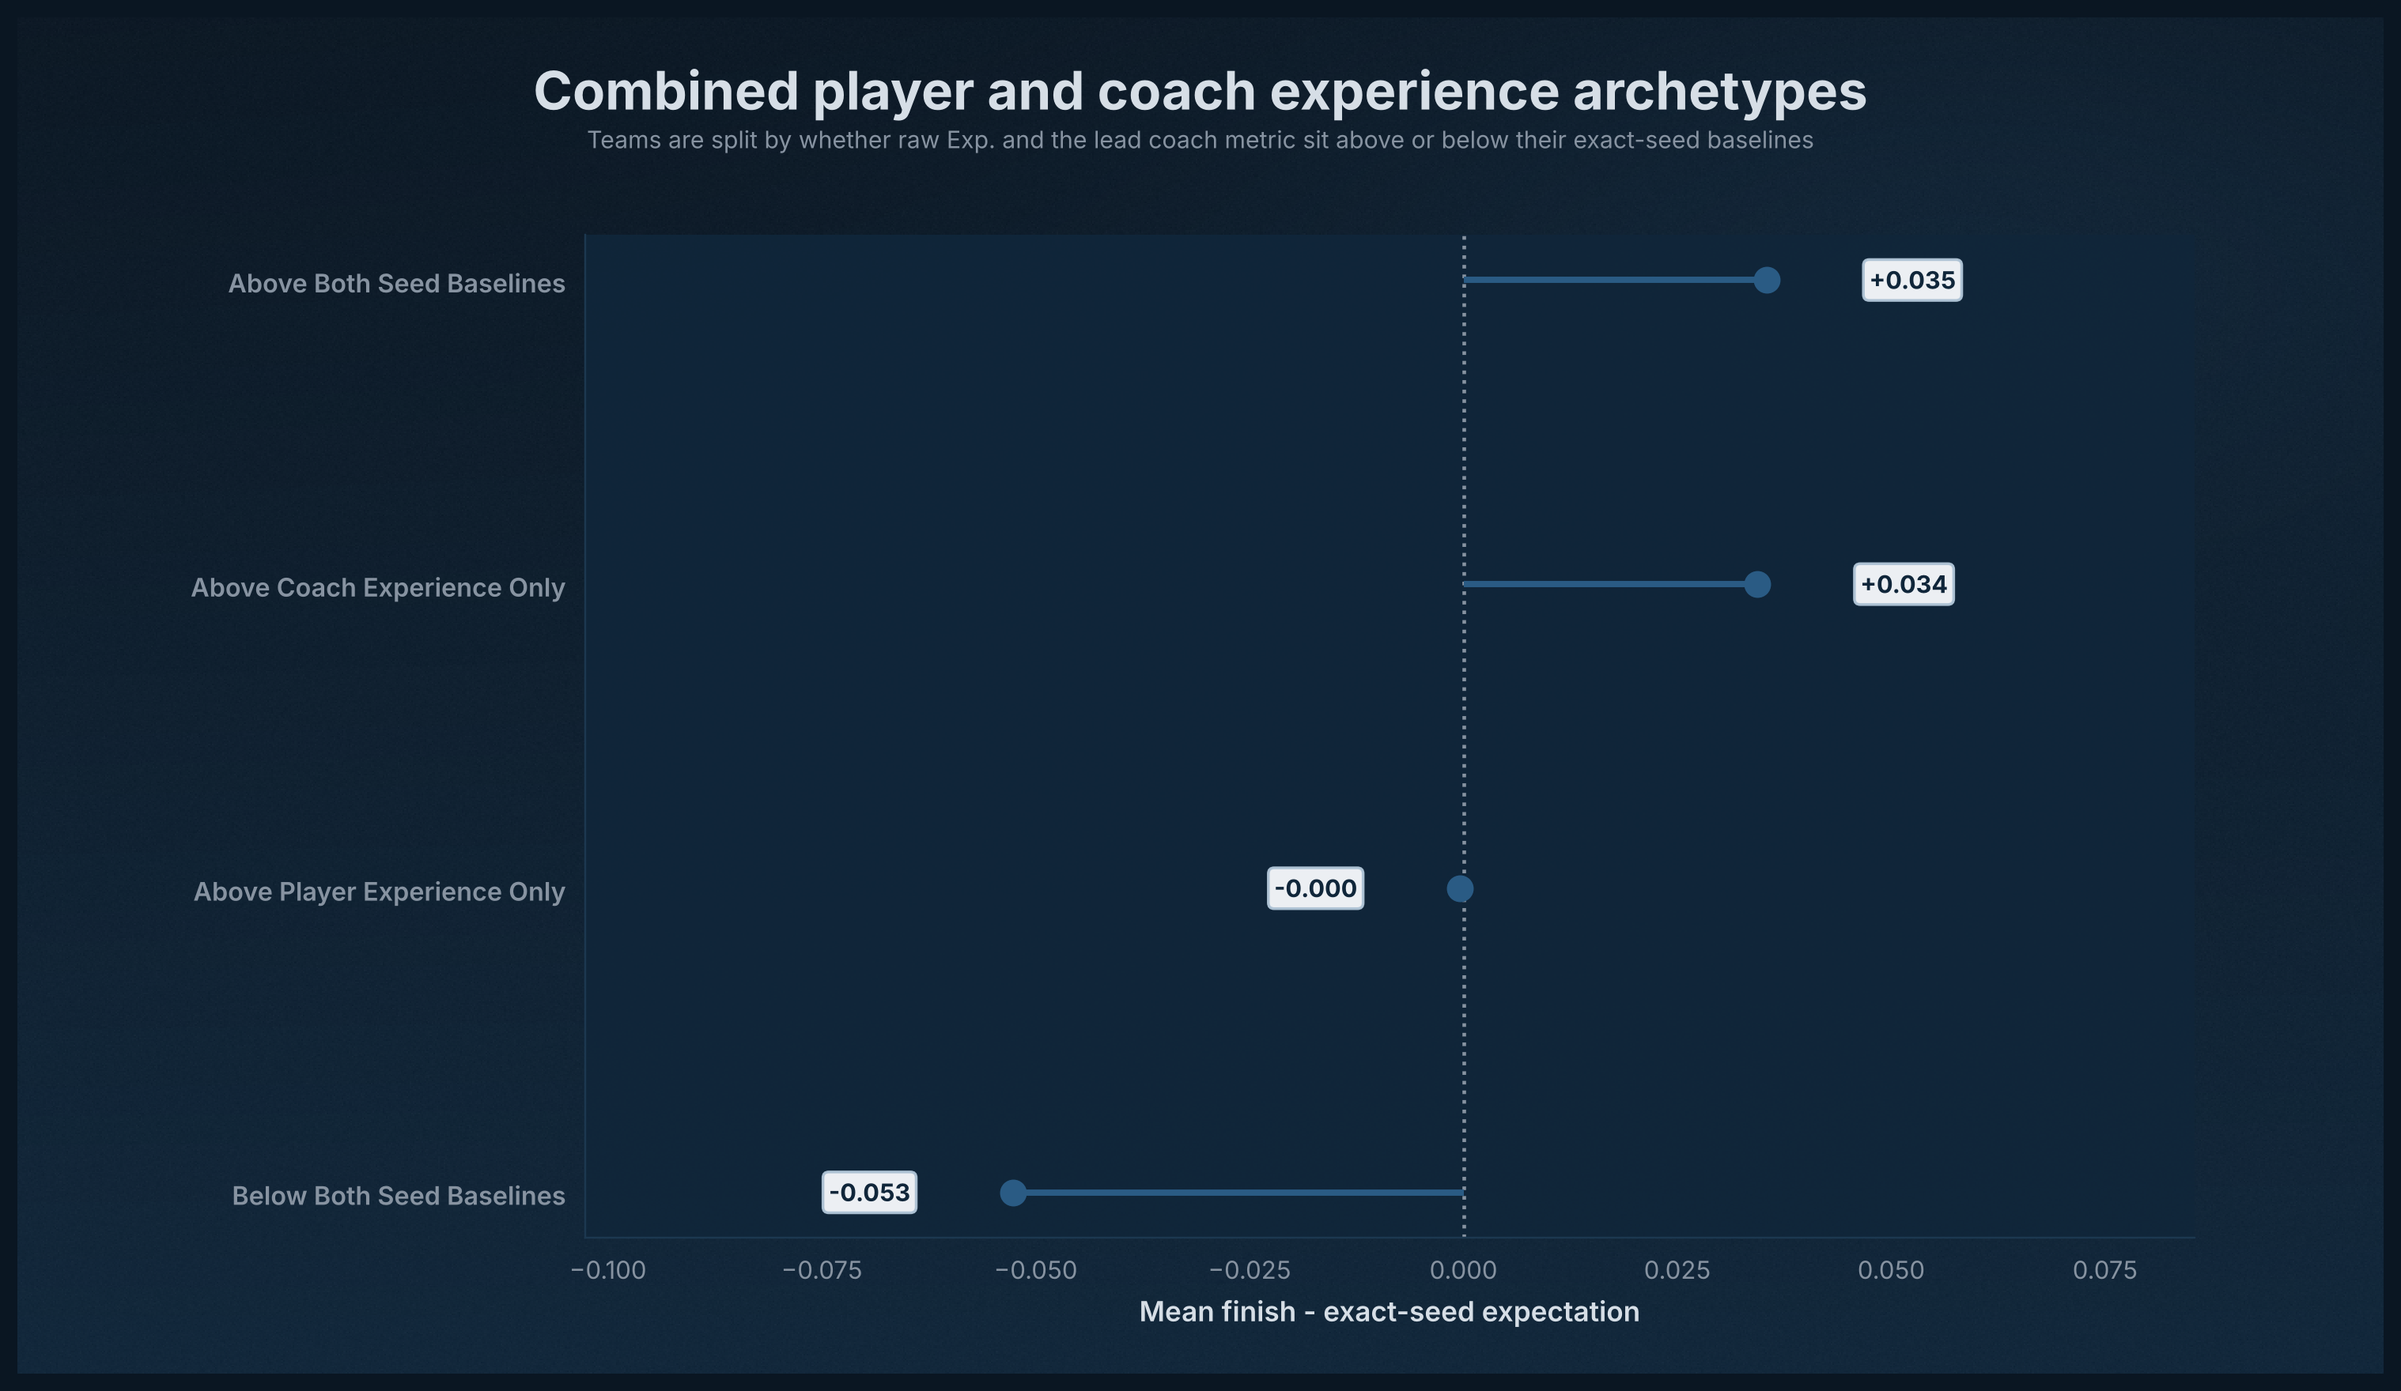
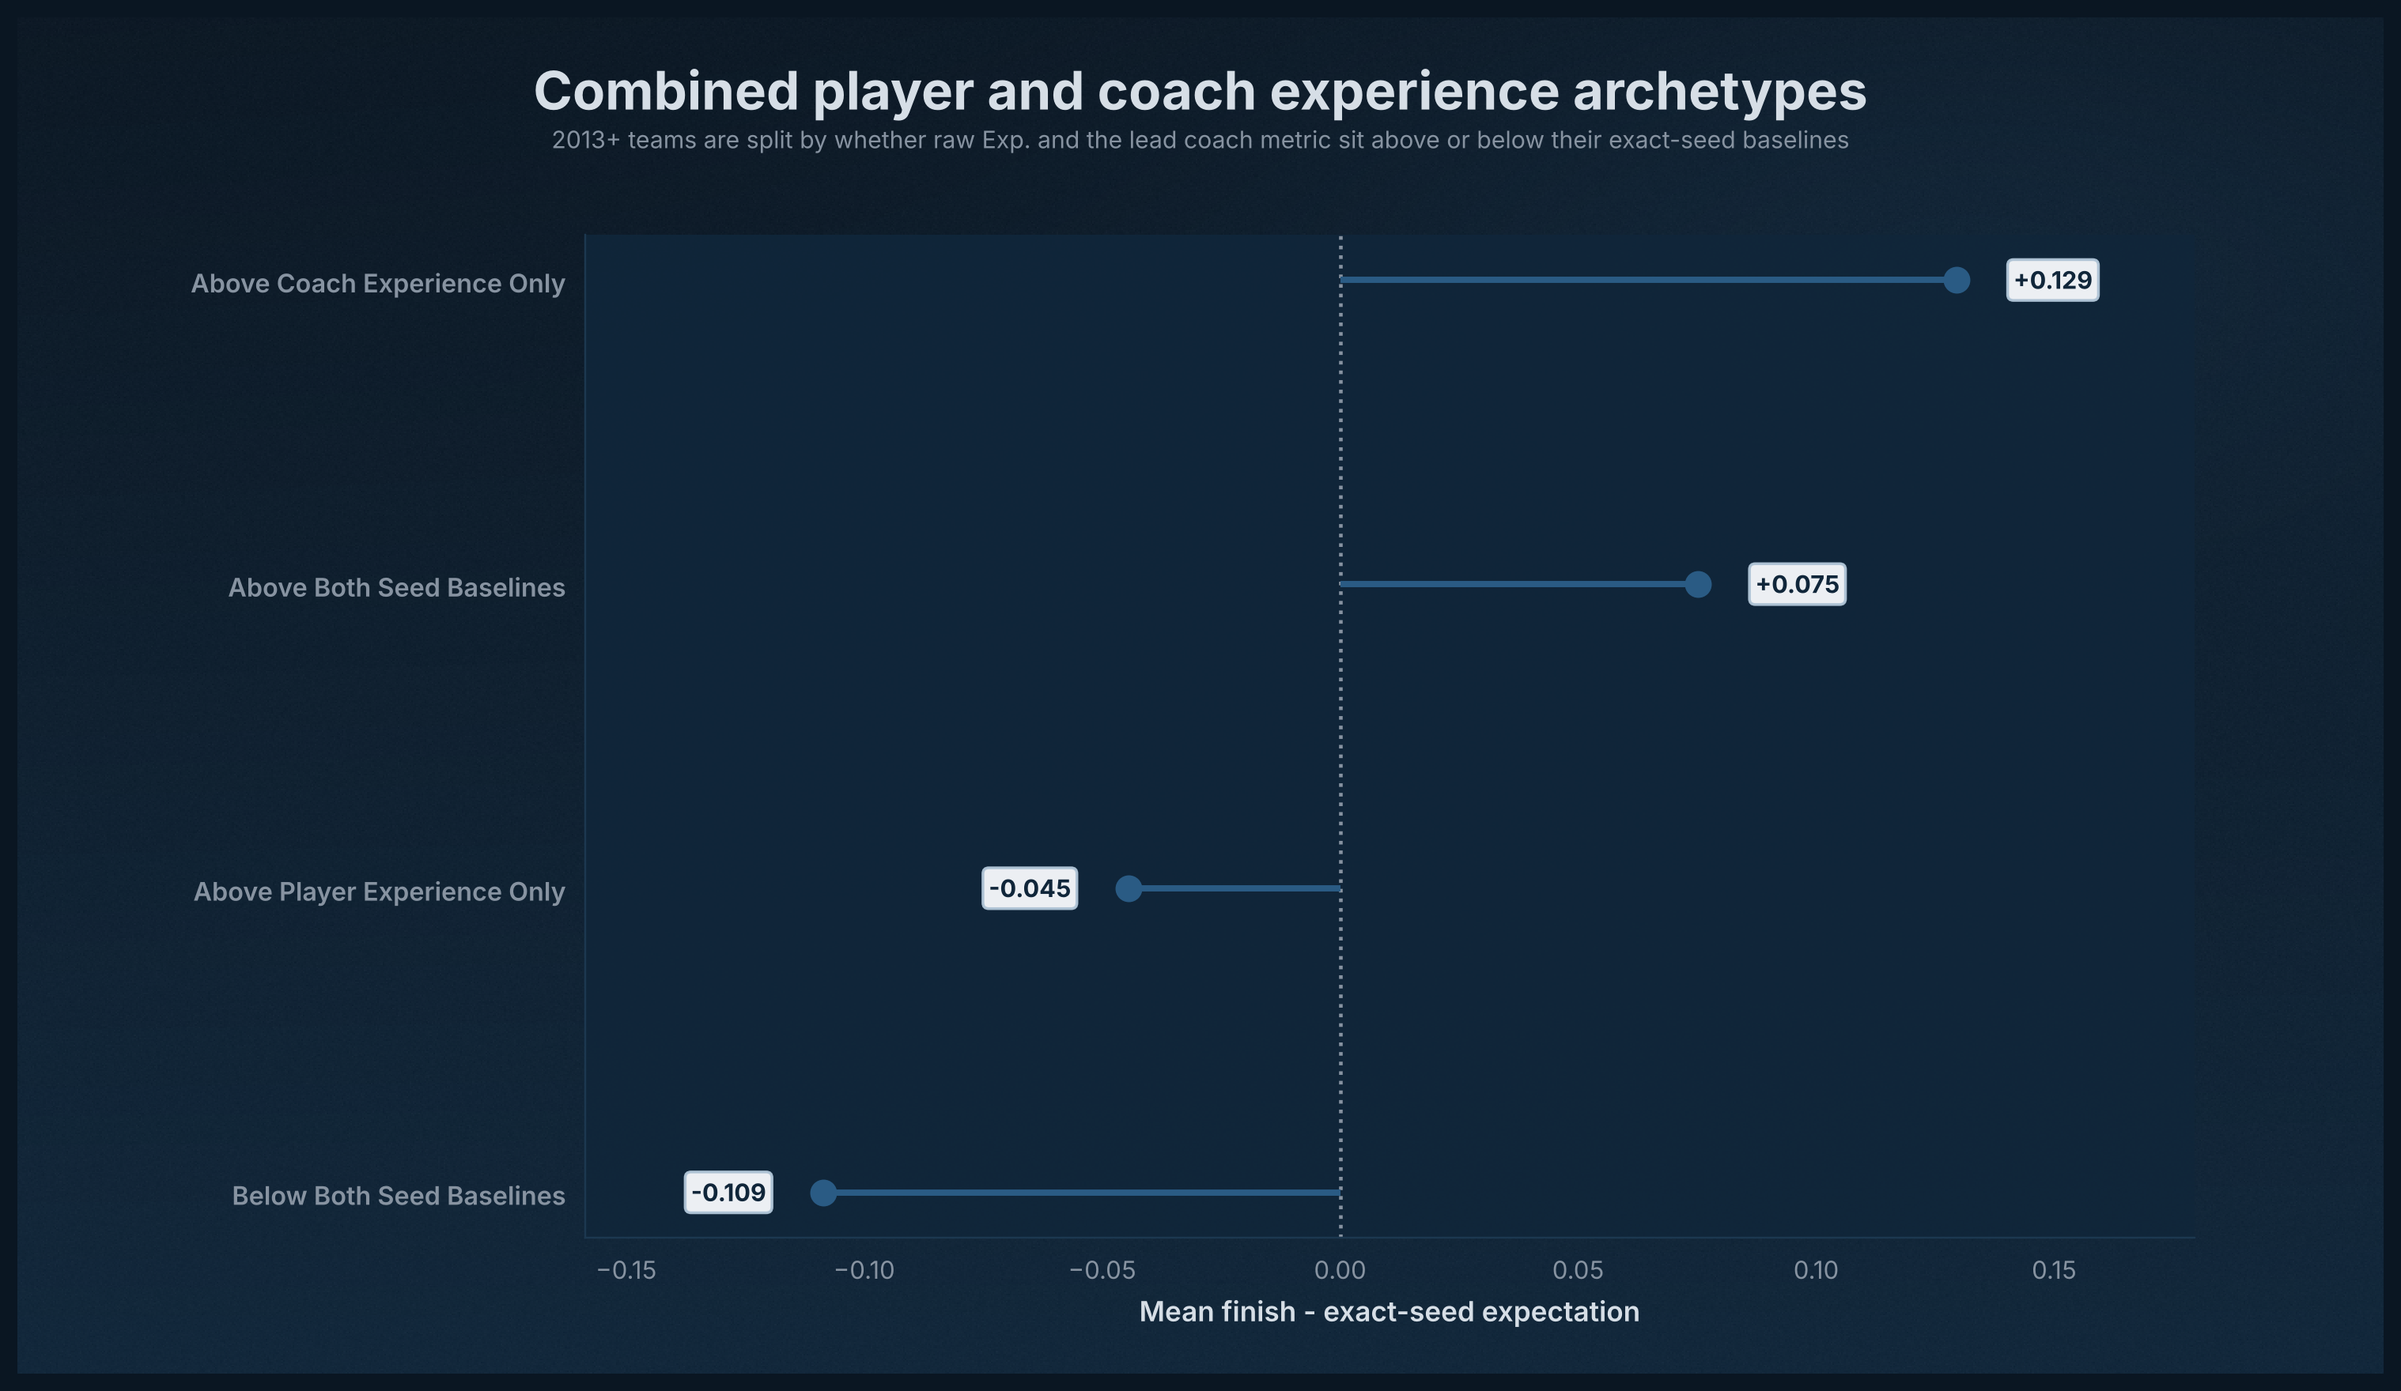
fix(experience): keep the coach archetypes to 2013+ and disclose the tenure cap
The combined player/coach archetypes split all 1,088 team-seasons from 2008-2025
on coach_tourn_games_5y, which is left-censored before 2013 because the
team-history cache starts in 2008 (mean 0.00 in 2008, 1.20 in 2009). They now use
the 768 team-seasons from 2013 on, like every other coach analysis, with both
seed baselines rebuilt on those seasons. Archetype means move from
+0.035/-0.000/+0.034/-0.053 to +0.075/-0.045/+0.129/-0.109.

coach_years_with_program is capped by the same cache start (6 in 2013, 18 in
2025, 19 in 2026). The coach summary, the 2026 field summary and
docs/data_sources.md now say so; the six 2026 coaches at 19 are listed as floors.

diff --git a/scripts/experience_analysis_05_07.py b/scripts/experience_analysis_05_07.py
@@ -13,6 +13,7 @@ from experience_analysis_common import (
     COACH_ANALYSIS_START_YEAR,
     COACH_SUPPORT_METRIC,
     CURRENT_FIELD_YEAR,
+    TEAM_HISTORY_START_YEAR,
     LABEL_TEXT,
     PLAYER_PRIMARY_METRIC,
     PLAYER_SUPPORT_METRIC,
@@ -159,7 +160,7 @@ def plot_analysis_05(table: pd.DataFrame, out_path: Path) -> None:
     fig.text(
         0.5,
         0.91,
-        "Teams are split by whether raw Exp. and the lead coach metric sit above or below their exact-seed baselines",
+        f"{COACH_ANALYSIS_START_YEAR}+ teams are split by whether raw Exp. and the lead coach metric sit above or below their exact-seed baselines",
         ha="center",
         va="center",
         fontsize=9.9,
@@ -777,6 +778,7 @@ def write_analysis_05_summary(path: Path, table: pd.DataFrame) -> None:
         f"- Best archetype: `{best['archetype']}` at `{best['mean_overperformance']:+.3f}` mean finish vs exact-seed expectation.",
         f"- Worst archetype: `{worst['archetype']}` at `{worst['mean_overperformance']:+.3f}` mean finish vs exact-seed expectation.",
         f"- The best archetype also carried an average coach tournament win rate of `{best['avg_coach_win_pct_5y']:.3f}`.",
+        f"- Seasons: `{COACH_ANALYSIS_START_YEAR}+` only, as in every coach analysis. The team-history cache starts in `{TEAM_HISTORY_START_YEAR}`, so 5-year coach counts before `{COACH_ANALYSIS_START_YEAR}` are left-censored; both seed baselines are averages over the same seasons.",
         "- Interpretation: each team is split at its exact seed line's average on both metrics; these are descriptive group means with no significance test.",
         "",
         "## Table",
@@ -809,6 +811,9 @@ def write_analysis_07_summary(path: Path, field_table: pd.DataFrame, coach_prima
     most = field_table.sort_values(["full_exp_z", "barthag"], ascending=[False, False], kind="stable").head(5)
     least = field_table.sort_values(["full_exp_z", "barthag"], ascending=[True, False], kind="stable").head(5)
     position_counts = field_table["full_exp_position"].value_counts()
+    tenure_cap = CURRENT_FIELD_YEAR - TEAM_HISTORY_START_YEAR + 1
+    capped = field_table.loc[field_table["coach_years_with_program"] >= tenure_cap, "coach"].tolist()
+    capped_text = f" ({', '.join(f'`{coach}`' for coach in capped)})" if capped else ""
 
     def format_team_list(table: pd.DataFrame) -> str:
         parts = []
@@ -830,6 +835,8 @@ def write_analysis_07_summary(path: Path, field_table: pd.DataFrame, coach_prima
         "`full_exp_delta` is the seed-line average rank minus the team's rank, so positive means more experienced than the seed line.",
         f"- Coach metric: `{coach_primary_metric}` (`{metric_label(coach_primary_metric)}`), against `{COACH_ANALYSIS_START_YEAR}-2025` seed-line averages.",
         "- Positions are `above`, `near` or `below baseline` at 0.35 standard deviations from the seed line's average.",
+        f"- `coach_years_with_program` is shown for reference only. It is counted from `{TEAM_HISTORY_START_YEAR}`, the first season "
+        f"in the team-history cache, so it tops out at `{tenure_cap}` in `{CURRENT_FIELD_YEAR}`, and a `{tenure_cap}`{capped_text} means at least `{tenure_cap}` seasons.",
         f"- Most experienced relative to their seed line (by z-score): {format_team_list(most)}.",
         f"- Least experienced relative to their seed line (by z-score): {format_team_list(least)}.",
         f"- Player position counts: `{int(position_counts.get('above baseline', 0))}` above, "
@@ -870,7 +877,9 @@ def main() -> int:
     over_df = build_overperformance_data(tournament_df)
     coach_over_df = build_overperformance_data(coach_tournament_df)
 
-    table_05 = build_analysis_05_table(over_df, coach_primary_metric)
+    # The coach baseline is censored before COACH_ANALYSIS_START_YEAR, so the archetypes use the same
+    # seasons as every other coach analysis, with both seed baselines rebuilt on them.
+    table_05 = build_analysis_05_table(coach_over_df, coach_primary_metric)
     table_06 = build_analysis_06_table(over_df, coach_over_df, coach_primary_metric)
     table_07 = build_analysis_07_table(full_df, tournament_df, coach_tournament_df, coach_primary_metric, paths["seeds_2026"], paths["logo_cache"])
 

diff --git a/scripts/experience_analysis_02_04.py b/scripts/experience_analysis_02_04.py
@@ -10,6 +10,7 @@ from experience_analysis_common import (
     ACCENT,
     COACH_ANALYSIS_START_YEAR,
     COACH_SUPPORT_METRIC,
+    CURRENT_FIELD_YEAR,
     FINISH_DISPLAY,
     FINISH_ORDER,
     HIGHLIGHT,
@@ -19,6 +20,7 @@ from experience_analysis_common import (
     SECONDARY,
     SEED_GROUP_MAP,
     SEED_GROUP_ORDER,
+    TEAM_HISTORY_START_YEAR,
     TEXT_DARK,
     TEXT_LIGHT,
     apply_report_background,
@@ -486,7 +488,10 @@ def write_analysis_04_summary(path: Path, table: pd.DataFrame, coach_primary_met
         "# Experience Analysis 4: Coach Experience vs March Success",
         "",
         f"- Lead coach metric: `{coach_primary_metric}` (`{metric_label(coach_primary_metric)}`) with seed-adjusted rho `{lead_row['seed_adjusted_spearman']:+.3f}` on `{COACH_ANALYSIS_START_YEAR}+` seasons.",
-        f"- `coach_years_with_program` seed-adjusted rho: `{tenure_row['seed_adjusted_spearman']:+.3f}`.",
+        f"- `coach_years_with_program` seed-adjusted rho: `{tenure_row['seed_adjusted_spearman']:+.3f}`. Tenure is counted from "
+        f"`{TEAM_HISTORY_START_YEAR}`, the first season in the team-history cache, so it is capped "
+        f"(`{COACH_ANALYSIS_START_YEAR - TEAM_HISTORY_START_YEAR + 1}` in `{COACH_ANALYSIS_START_YEAR}`, "
+        f"`{CURRENT_FIELD_YEAR - TEAM_HISTORY_START_YEAR}` in `{CURRENT_FIELD_YEAR - 1}`) and understates longer tenures.",
         f"- Support metric `coach_tourn_win_pct_5y` seed-adjusted rho: `{support_row['seed_adjusted_spearman']:+.3f}`.",
         f"- Interpretation: descriptive rank correlations on `{COACH_ANALYSIS_START_YEAR}+` seasons; no significance test is applied.",
         "",

diff --git a/scripts/experience_analysis_common.py b/scripts/experience_analysis_common.py
@@ -66,6 +66,8 @@ PLAYER_SUPPORT_METRIC = "exp_rank_season"
 COACH_CANDIDATES = ["coach_tourn_games_5y", "coach_years_with_program"]
 COACH_SUPPORT_METRIC = "coach_tourn_win_pct_5y"
 COACH_ANALYSIS_START_YEAR = 2013
+# First season in data/raw/team_history_cache.csv: coach windows and tenure cannot look back past it.
+TEAM_HISTORY_START_YEAR = 2008
 COACH_HISTORY_COLUMNS = [
     "coach_tourn_appearances_5y",
     "coach_tourn_wins_5y",
@@ -402,6 +404,7 @@ __all__ = [
     "SECONDARY",
     "SEED_GROUP_MAP",
     "SEED_GROUP_ORDER",
+    "TEAM_HISTORY_START_YEAR",
     "TEXT_DARK",
     "TEXT_LIGHT",
     "TRANSFER_PORTAL_YEAR",

diff --git a/reports/combined_experience_archetypes_summary.md b/reports/combined_experience_archetypes_summary.md
@@ -1,15 +1,16 @@
 # Experience Analysis 5: Combined Experience Archetypes
 
-- Best archetype: `above both seed baselines` at `+0.035` mean finish vs exact-seed expectation.
-- Worst archetype: `below both seed baselines` at `-0.053` mean finish vs exact-seed expectation.
-- The best archetype also carried an average coach tournament win rate of `0.424`.
+- Best archetype: `above coach experience only` at `+0.129` mean finish vs exact-seed expectation.
+- Worst archetype: `below both seed baselines` at `-0.109` mean finish vs exact-seed expectation.
+- The best archetype also carried an average coach tournament win rate of `0.502`.
+- Seasons: `2013+` only, as in every coach analysis. The team-history cache starts in `2008`, so 5-year coach counts before `2013` are left-censored; both seed baselines are averages over the same seasons.
 - Interpretation: each team is split at its exact seed line's average on both metrics; these are descriptive group means with no significance test.
 
 ## Table
 
 | archetype                    |   team_count |   mean_overperformance |   median_overperformance |   adv_rate |   avg_exp |   avg_exp_rank |   avg_coach_primary |   avg_coach_win_pct_5y |
 |:-----------------------------|-------------:|-----------------------:|-------------------------:|-----------:|----------:|---------------:|--------------------:|-----------------------:|
-| above both seed baselines    |          208 |                  0.035 |                   -0.118 |      0.385 |     2.113 |         85.428 |               6.913 |                  0.424 |
-| above player experience only |          361 |                 -0     |                   -0.118 |      0.388 |     2.14  |         73.77  |               1.38  |                  0.149 |
-| above coach experience only  |          231 |                  0.034 |                   -0.118 |      0.45  |     1.473 |        255.342 |               8.26  |                  0.519 |
-| below both seed baselines    |          288 |                 -0.053 |                   -0.118 |      0.33  |     1.555 |        234.142 |               1.212 |                  0.13  |
+| above both seed baselines    |          146 |                  0.075 |                   -0.146 |      0.39  |     2.125 |         85     |               7.493 |                  0.422 |
+| above player experience only |          255 |                 -0.045 |                   -0.146 |      0.337 |     2.189 |         73.608 |               1.984 |                  0.193 |
+| above coach experience only  |          169 |                  0.129 |                   -0.042 |      0.467 |     1.478 |        255.716 |               8.84  |                  0.502 |
+| below both seed baselines    |          198 |                 -0.109 |                   -0.208 |      0.273 |     1.609 |        235.369 |               1.939 |                  0.175 |

diff --git a/reports/experience_2026_field_summary.md b/reports/experience_2026_field_summary.md
@@ -5,6 +5,7 @@ The March 2026 bracketology projection is joined to the `2026` experience sample
 - Player metric: `exp_rank_season` (`Season-wide Exp rank`, 1 = most experienced), against `2008-2025` seed-line averages. `full_exp_delta` is the seed-line average rank minus the team's rank, so positive means more experienced than the seed line.
 - Coach metric: `coach_tourn_games_5y` (`Coach tourney games (5y)`), against `2013-2025` seed-line averages.
 - Positions are `above`, `near` or `below baseline` at 0.35 standard deviations from the seed line's average.
+- `coach_years_with_program` is shown for reference only. It is counted from `2008`, the first season in the team-history cache, so it tops out at `19` in `2026`, and a `19` (`Mark Few`, `Matt Painter`, `Tom Izzo`, `Bill Self`, `Randy Bennett`, `Brett Reed`) means at least `19` seasons.
 - Most experienced relative to their seed line (by z-score): `UCF` (11) season-wide rank `38`, Exp. `2.43`, `+135.9` ranks vs the seed-line average; `Texas A&M` (9) season-wide rank `26`, Exp. `2.49`, `+139.4` ranks vs the seed-line average; `Vanderbilt` (4) season-wide rank `58`, Exp. `2.32`, `+124.7` ranks vs the seed-line average; `Missouri` (11) season-wide rank `63`, Exp. `2.29`, `+110.9` ranks vs the seed-line average; `Southern` (16) season-wide rank `22`, Exp. `2.51`, `+113.0` ranks vs the seed-line average.
 - Least experienced relative to their seed line (by z-score): `Wright St.` (14) season-wide rank `347`, Exp. `1.25`, `-229.4` ranks vs the seed-line average; `UC Irvine` (14) season-wide rank `317`, Exp. `1.43`, `-199.4` ranks vs the seed-line average; `Lehigh` (16) season-wide rank `329`, Exp. `1.37`, `-194.0` ranks vs the seed-line average; `Duke` (1) season-wide rank `363`, Exp. `0.89`, `-174.6` ranks vs the seed-line average; `BYU` (7) season-wide rank `299`, Exp. `1.50`, `-146.9` ranks vs the seed-line average.
 - Player position counts: `22` above, `7` near, `39` below.

diff --git a/docs/data_sources.md b/docs/data_sources.md
@@ -119,7 +119,7 @@ This reads the team-history cache and writes `data/raw/team_history_cache_enrich
 
 - **`coach_tourn_appearances_5y`**: NCAA tournaments the head coach appeared in over the prior 5 tournament years (2020 excluded).
 - **`coach_tourn_wins_5y`** / **`coach_tourn_losses_5y`**: Tournament W-L for that coach over those same seasons.
-- **`coach_years_with_program`**: Consecutive years (including current) the head coach has been at this program.
+- **`coach_years_with_program`**: Consecutive years (including current) the head coach has been at this program. The cache starts in 2008, so tenure is capped at the seasons since then (6 in 2013, 19 in 2026) and understates longer tenures. The 5-year tournament counts are complete only from 2013, which is why the coach analyses start there.
 
 The enriched cache is joined into `all_trank_team_tables.csv` by `recompile_all_trank_team_tables.py`. **Estimated runtime**: ~20 seconds (local computation, no network).
 

diff --git a/reports/coach_experience_vs_march_summary.md b/reports/coach_experience_vs_march_summary.md
@@ -1,7 +1,7 @@
 # Experience Analysis 4: Coach Experience vs March Success
 
 - Lead coach metric: `coach_tourn_games_5y` (`Coach tourney games (5y)`) with seed-adjusted rho `+0.101` on `2013+` seasons.
-- `coach_years_with_program` seed-adjusted rho: `+0.059`.
+- `coach_years_with_program` seed-adjusted rho: `+0.059`. Tenure is counted from `2008`, the first season in the team-history cache, so it is capped (`6` in `2013`, `18` in `2025`) and understates longer tenures.
 - Support metric `coach_tourn_win_pct_5y` seed-adjusted rho: `+0.054`.
 - Interpretation: descriptive rank correlations on `2013+` seasons; no significance test is applied.
 
